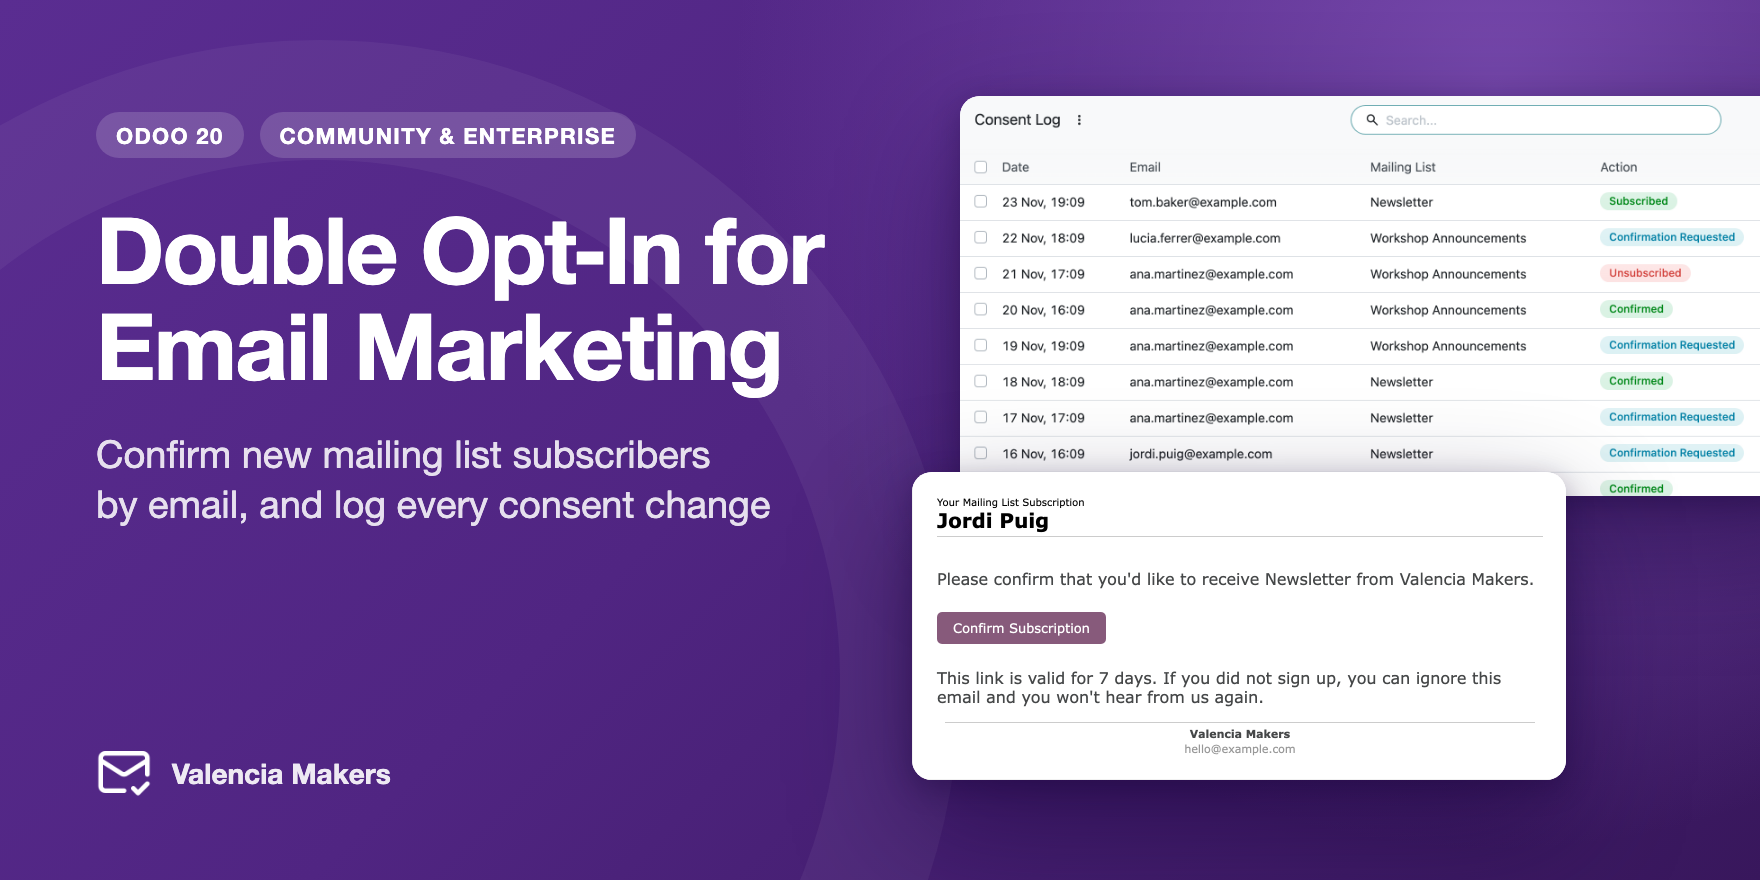
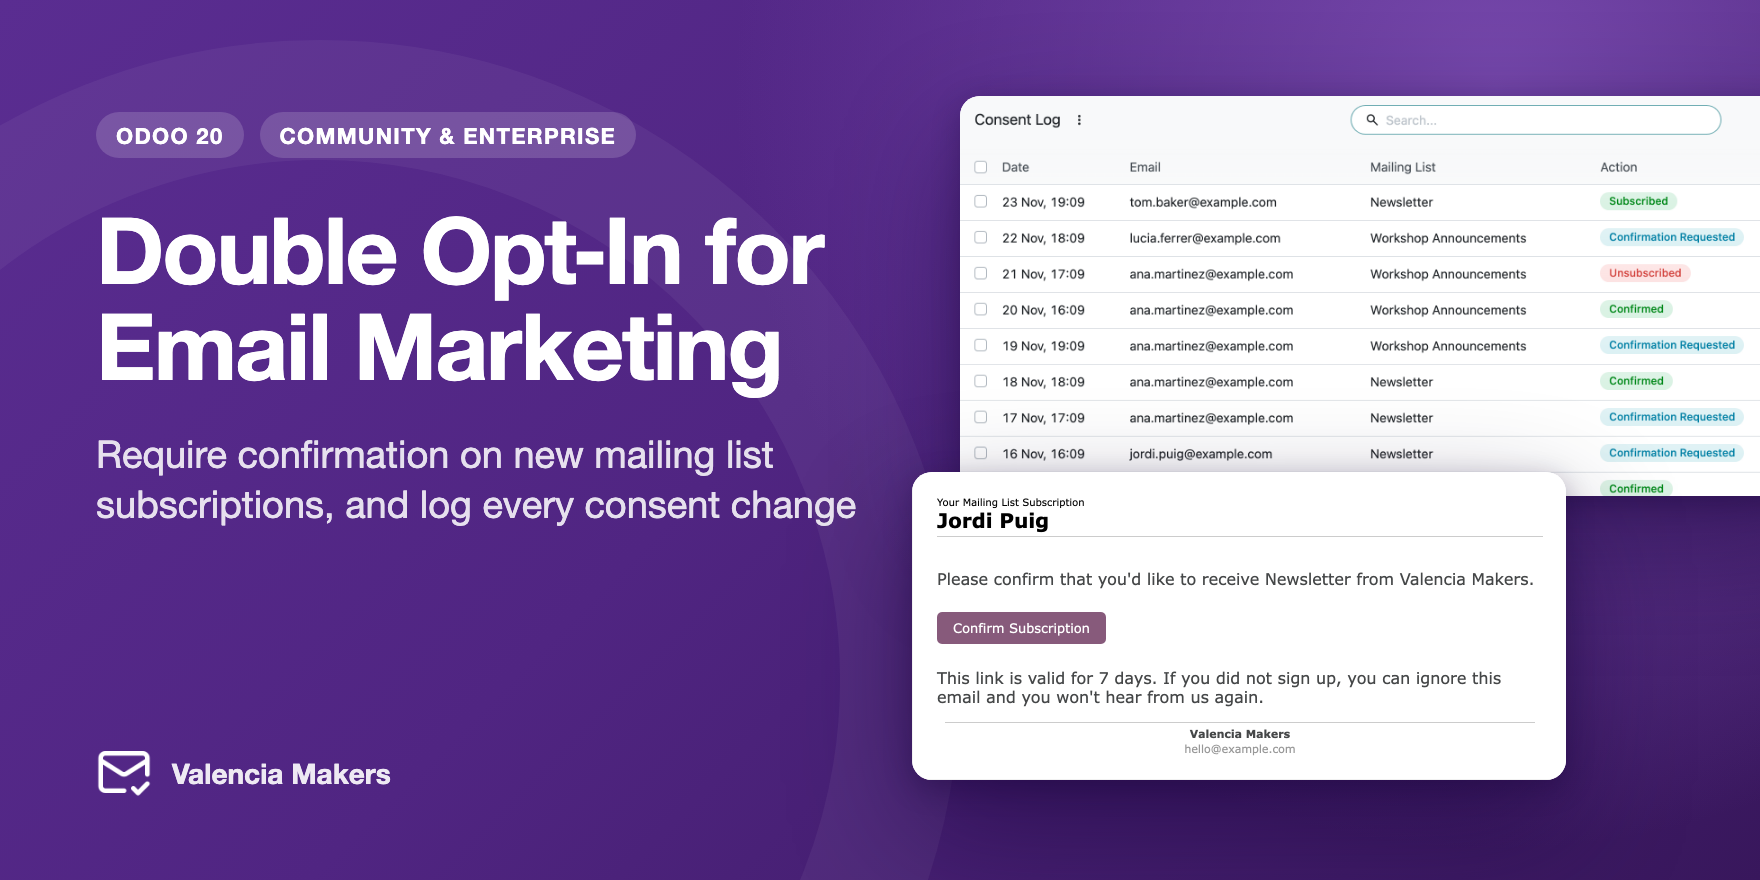
Reword vmk_mass_mailing_double_optin's summary
- New summary: "Require confirmation on new mailing list subscriptions, and log every
  consent change", in the manifest, the translation test, the manual, the README, and
  every catalogue, with new Spanish and Catalan.
- The cover's tagline breaks after "list", the last word that fits beside the cards.

Changed region(s): [[0.0625, 0.4909, 0.5, 0.6136]]

diff --git a/tools/covers/vmk_mass_mailing_double_optin.html b/tools/covers/vmk_mass_mailing_double_optin.html
@@ -9,7 +9,7 @@
     <div class="text" style="width: 440px;">
         <div class="badges"><span class="badge">Odoo 20</span><span class="badge">Community &amp; Enterprise</span></div>
         <h1>Double Opt&#8209;In for<br>Email Marketing</h1>
-        <p class="tagline">Confirm new mailing list subscribers<br>by email, and log every consent change</p>
+        <p class="tagline">Require confirmation on new mailing list<br>subscriptions, and log every consent change</p>
     </div>
     <div class="brand"><img src="../../vmk_mass_mailing_double_optin/static/description/icon.png" alt="">Valencia Makers</div>
     <!-- Behind: the consent log (1280x594 CSS px at 2x) at 0.45, its first rows, bleeding off the

diff --git a/vmk_mass_mailing_double_optin/tests/test_translations.py b/vmk_mass_mailing_double_optin/tests/test_translations.py
@@ -29,7 +29,7 @@ class TestModuleNameTranslation(TransactionCase):
     I18N = Path(__file__).resolve().parent.parent / "i18n"
     MODULE_METADATA = (
         "Double Opt-In for Email Marketing",
-        "Confirm new mailing list subscribers by email, and log every consent change",
+        "Require confirmation on new mailing list subscriptions, and log every consent change",
     )
 
     def _translation(self, catalogue, msgid):

diff --git a/vmk_mass_mailing_double_optin/__manifest__.py b/vmk_mass_mailing_double_optin/__manifest__.py
@@ -3,7 +3,7 @@
 
 {
     "name": "Double Opt-In for Email Marketing",
-    "summary": "Confirm new mailing list subscribers by email, and log every consent change",
+    "summary": "Require confirmation on new mailing list subscriptions, and log every consent change",
     "version": "20.0.1.1.0",
     "author": "Valencia Makers",
     "license": "LGPL-3",

diff --git a/vmk_mass_mailing_double_optin/README.md b/vmk_mass_mailing_double_optin/README.md
@@ -1,9 +1,10 @@
 # Double Opt-In for Email Marketing (`vmk_mass_mailing_double_optin`)
 
-Confirm new mailing list subscribers by email, and log every consent change. Someone who subscribes
-on the website receives an email with a confirmation link, and receives no mailings from that list
-until they confirm. A consent log records every subscription, confirmation, unsubscription, and
-blacklisting, with the date, the page, the IP address, and the browser of whoever made it.
+Require confirmation on new mailing list subscriptions, and log every consent change. Someone who
+subscribes on the website receives an email with a confirmation link, and receives no mailings from
+that list until they confirm. A consent log records every subscription, confirmation,
+unsubscription, and blacklisting, with the date, the page, the IP address, and the browser of
+whoever made it.
 
 **How to use it** is in the user documentation, [`doc/index.rst`](doc/index.rst), which the Odoo
 Apps Store also shows on the module's page, together with the changelog.

diff --git a/vmk_mass_mailing_double_optin/doc/index.rst b/vmk_mass_mailing_double_optin/doc/index.rst
@@ -1,4 +1,4 @@
-Confirm new mailing list subscribers by email, and log every consent change.
+Require confirmation on new mailing list subscriptions, and log every consent change.
 
 Someone who subscribes to a mailing list on your website receives an email with a confirmation
 link, and receives no mailings from that list until they confirm. Every subscription,
